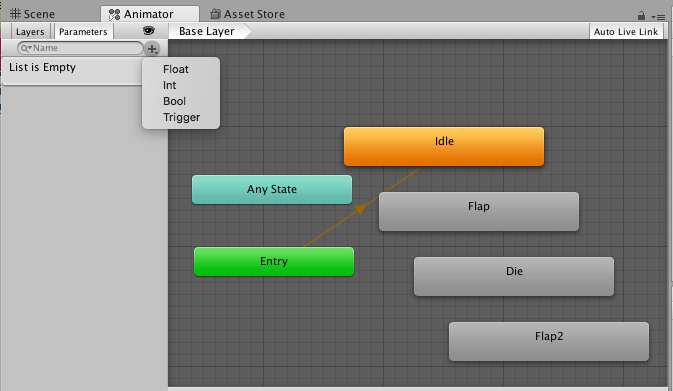
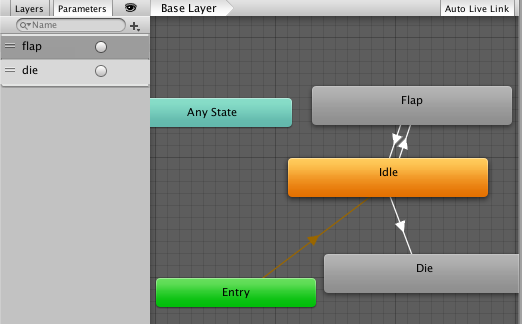
added workshop fixes

diff --git a/workshop-6-FlappyBird/README.md b/workshop-6-FlappyBird/README.md
@@ -159,7 +159,9 @@ In your code editor, we ant a way to check if the bird died, and make the GameOv
 Add this to the top of the script: 
 ```cs
 using UnityEngine.UI; 
+using UnityEngine.SceneManagement; 
 ```
+These two lines will let use use built-in Unity methods to handle UI and loading scenes. 
 
 Add these variables before the Start Method: 
 ```cs
@@ -293,7 +295,6 @@ Make an empty gameobject called Columns, and make the two columns children of th
 
 Before the Start Method, add these variables: 
 ```cs
-public GameController GameController;
 public GameObject columnPrefab;                            
 public int columnPoolSize = 5;                                
 public float spawnRate = 3f;                        
@@ -308,7 +309,9 @@ private float spawnXPosition = 10f;
 
 private float timeSinceLastSpawned;
 ```
-There's a lot of variables here, but most of them are pretty intuitive. "columns" is an array, which if you recall is basically a list of other gameobjects. We're making a "pool" of objects, which is basically objects we're going to move to the right of the screen as soon as they pass the left side of the screen. ColumnMin and ColumnMax are the furthest up and down the columns can spawn as. 
+Instead of generating an infinite number of columns and wasting energy destroying them as soon as they go offscreen, we're only going to have 5 columns, which we are simply going to move to the right of the screen as soon as they go too far left. 
+
+These variables are mostly intuitive, so I'm not going to go super in detail about it. SpawnXPosition is where to the right they spawn. "columns" is an array, which if you recall is a programming object that's a list of other objects. It will hold our actual columns. 
 
 Inside the Start Method, add: 
 ```cs
@@ -342,6 +345,30 @@ If so, it'll reset the timeSinceLastSpawned, and generate a random y position fo
 
 Awesome. First attach this script to the GameController. Take the column object we created and drag it into our project window to make it a prefab. 
 
+# Common Problems
+"LoadScene is not defined" or "Text is not defined"
+    This means Unity doesn't know what those are, since they're methods that are included in the library. To fix this, add either "using UnityEngine.UI" or "using UnityEngine.SceneManagement"
+
+The Bird is going through the Ground
+    This means either the bird or the ground doesn't have a collider attached. Go to the inspector of both, and make sure that the bird has a polygon collider, and the ground has a box collider. Also check that the box collider for the ground is adjusted to be around where the ground is. 
+
+The Animation isn't happening
+    This unfortunately can mean a number of things. First check that flap and die are parameters in your Animator, and that they appear in under Parameters in the left column of Animator. If that's good, make sure that the transitions between Flap and Idle and Die and Idle have flap and die Under Conditions in the Inspector. If that's good, check that the keyword in "anim.SetTrigger()" is exactly the same as the condition in the animator - Unity is case-sensitive. 
+
+Null Reference blah blah
+    This means that you haven't assigned one or more of the public variables for one of your scripts. Be sure that you drag in the ScoreText in the scoretext box for your gameController, the Column prefab in the columnPrefab space in your Column pool, etc. 
+
+My bird can go offscreen if I keep clicking
+    Yup. If you do everything perfectly in this tutorial that's one thing we didn't really address. Try to fix it yourself using what we covered. (Hint: Box Collider)
+
+The Game looks weird when scrolling and there's blue space around it
+    We ran into this problem too during the actual workshop. It's an easy fix though - in the Game Window, change the Aspect Ratio(the button next to Display 1) to 16:9. 
+
+Literally any other problem
+    If it's something like an error with the code, copy the error into google, and see what the problem might be, usually it's something small. If it's something more Unity-specific, especially with the animation, that might be a harder fix. First check through the steps in this tutorial and make sure you followed everything. If that doesn't work, feel free to reach out to me or any other officers in the club. 
+
+Also PLEASE reach out to me if there's a problem with my code or explanations here. I'll really appreciate it. 
+
 # Scripts
 BirdController.cs
 ```cs
@@ -369,7 +396,7 @@ public class BirdController : MonoBehaviour {
             {
                 rb.velocity = Vector2.zero;
                 rb.AddForce(new Vector2(0,upForce));
-                anim.SetTrigger("Flap");
+                anim.SetTrigger("flap");
             }
         }
 	}
@@ -377,7 +404,7 @@ public class BirdController : MonoBehaviour {
     {
         isDead = true;
         rb.velocity = Vector2.zero; 
-        anim.SetTrigger("Die");
+        anim.SetTrigger("die");
     }
 
 }
@@ -389,6 +416,7 @@ GameController.cs
 using System.Collections.Generic;
 using UnityEngine;
 using UnityEngine.UI; 
+using UnityEngine.SceneManagement; 
 
 public class GameController : MonoBehaviour {
 	public GameObject gameOverText;
@@ -411,7 +439,10 @@ public class GameController : MonoBehaviour {
 	
 	// Update is called once per frame
 	void Update () {
-		
+		if (gameOver == true && Input.GetMouseButton(0))
+        {
+            SceneManager.LoadScene(SceneManager.GetActiveScene().buildIndex);
+        }
 	}
 	public void BirdDied()
 	{
@@ -442,7 +473,6 @@ using System.Collections.Generic;
 using UnityEngine;
 
 public class Scrolling : MonoBehaviour {
-	public GameController GameController; 
 	private Rigidbody2D rb;
 	// Use this for initialization
 	void Start () {
@@ -496,7 +526,6 @@ using UnityEngine;
 
 public class ColumnPool : MonoBehaviour {
 
-	public GameController GameController;
 	public GameObject columnPrefab;                            
 	public int columnPoolSize = 5;                                
 	public float spawnRate = 3f;                        
